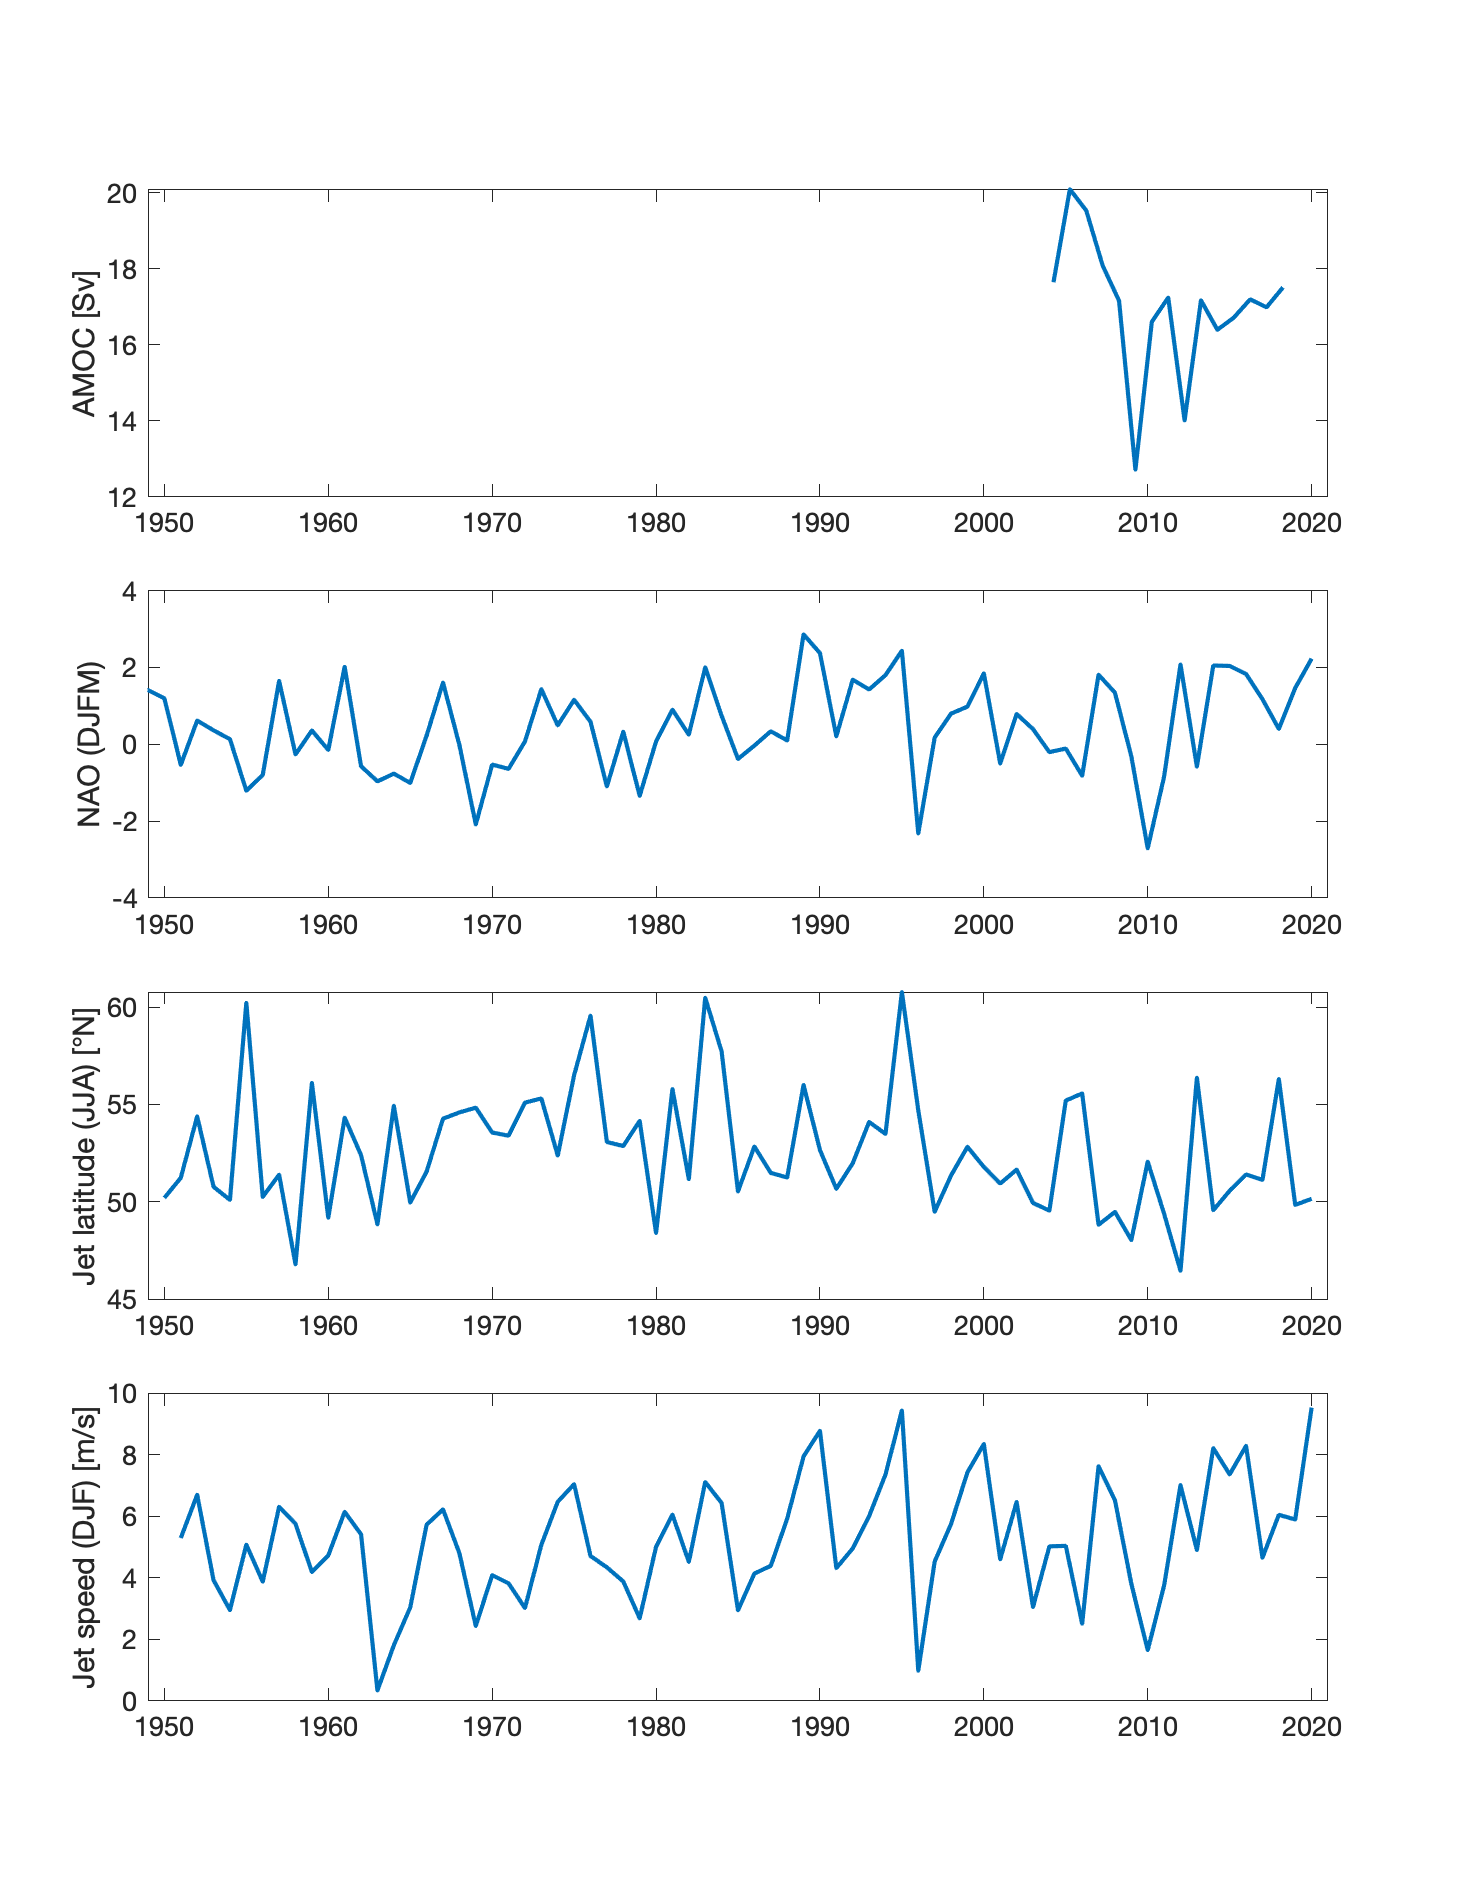
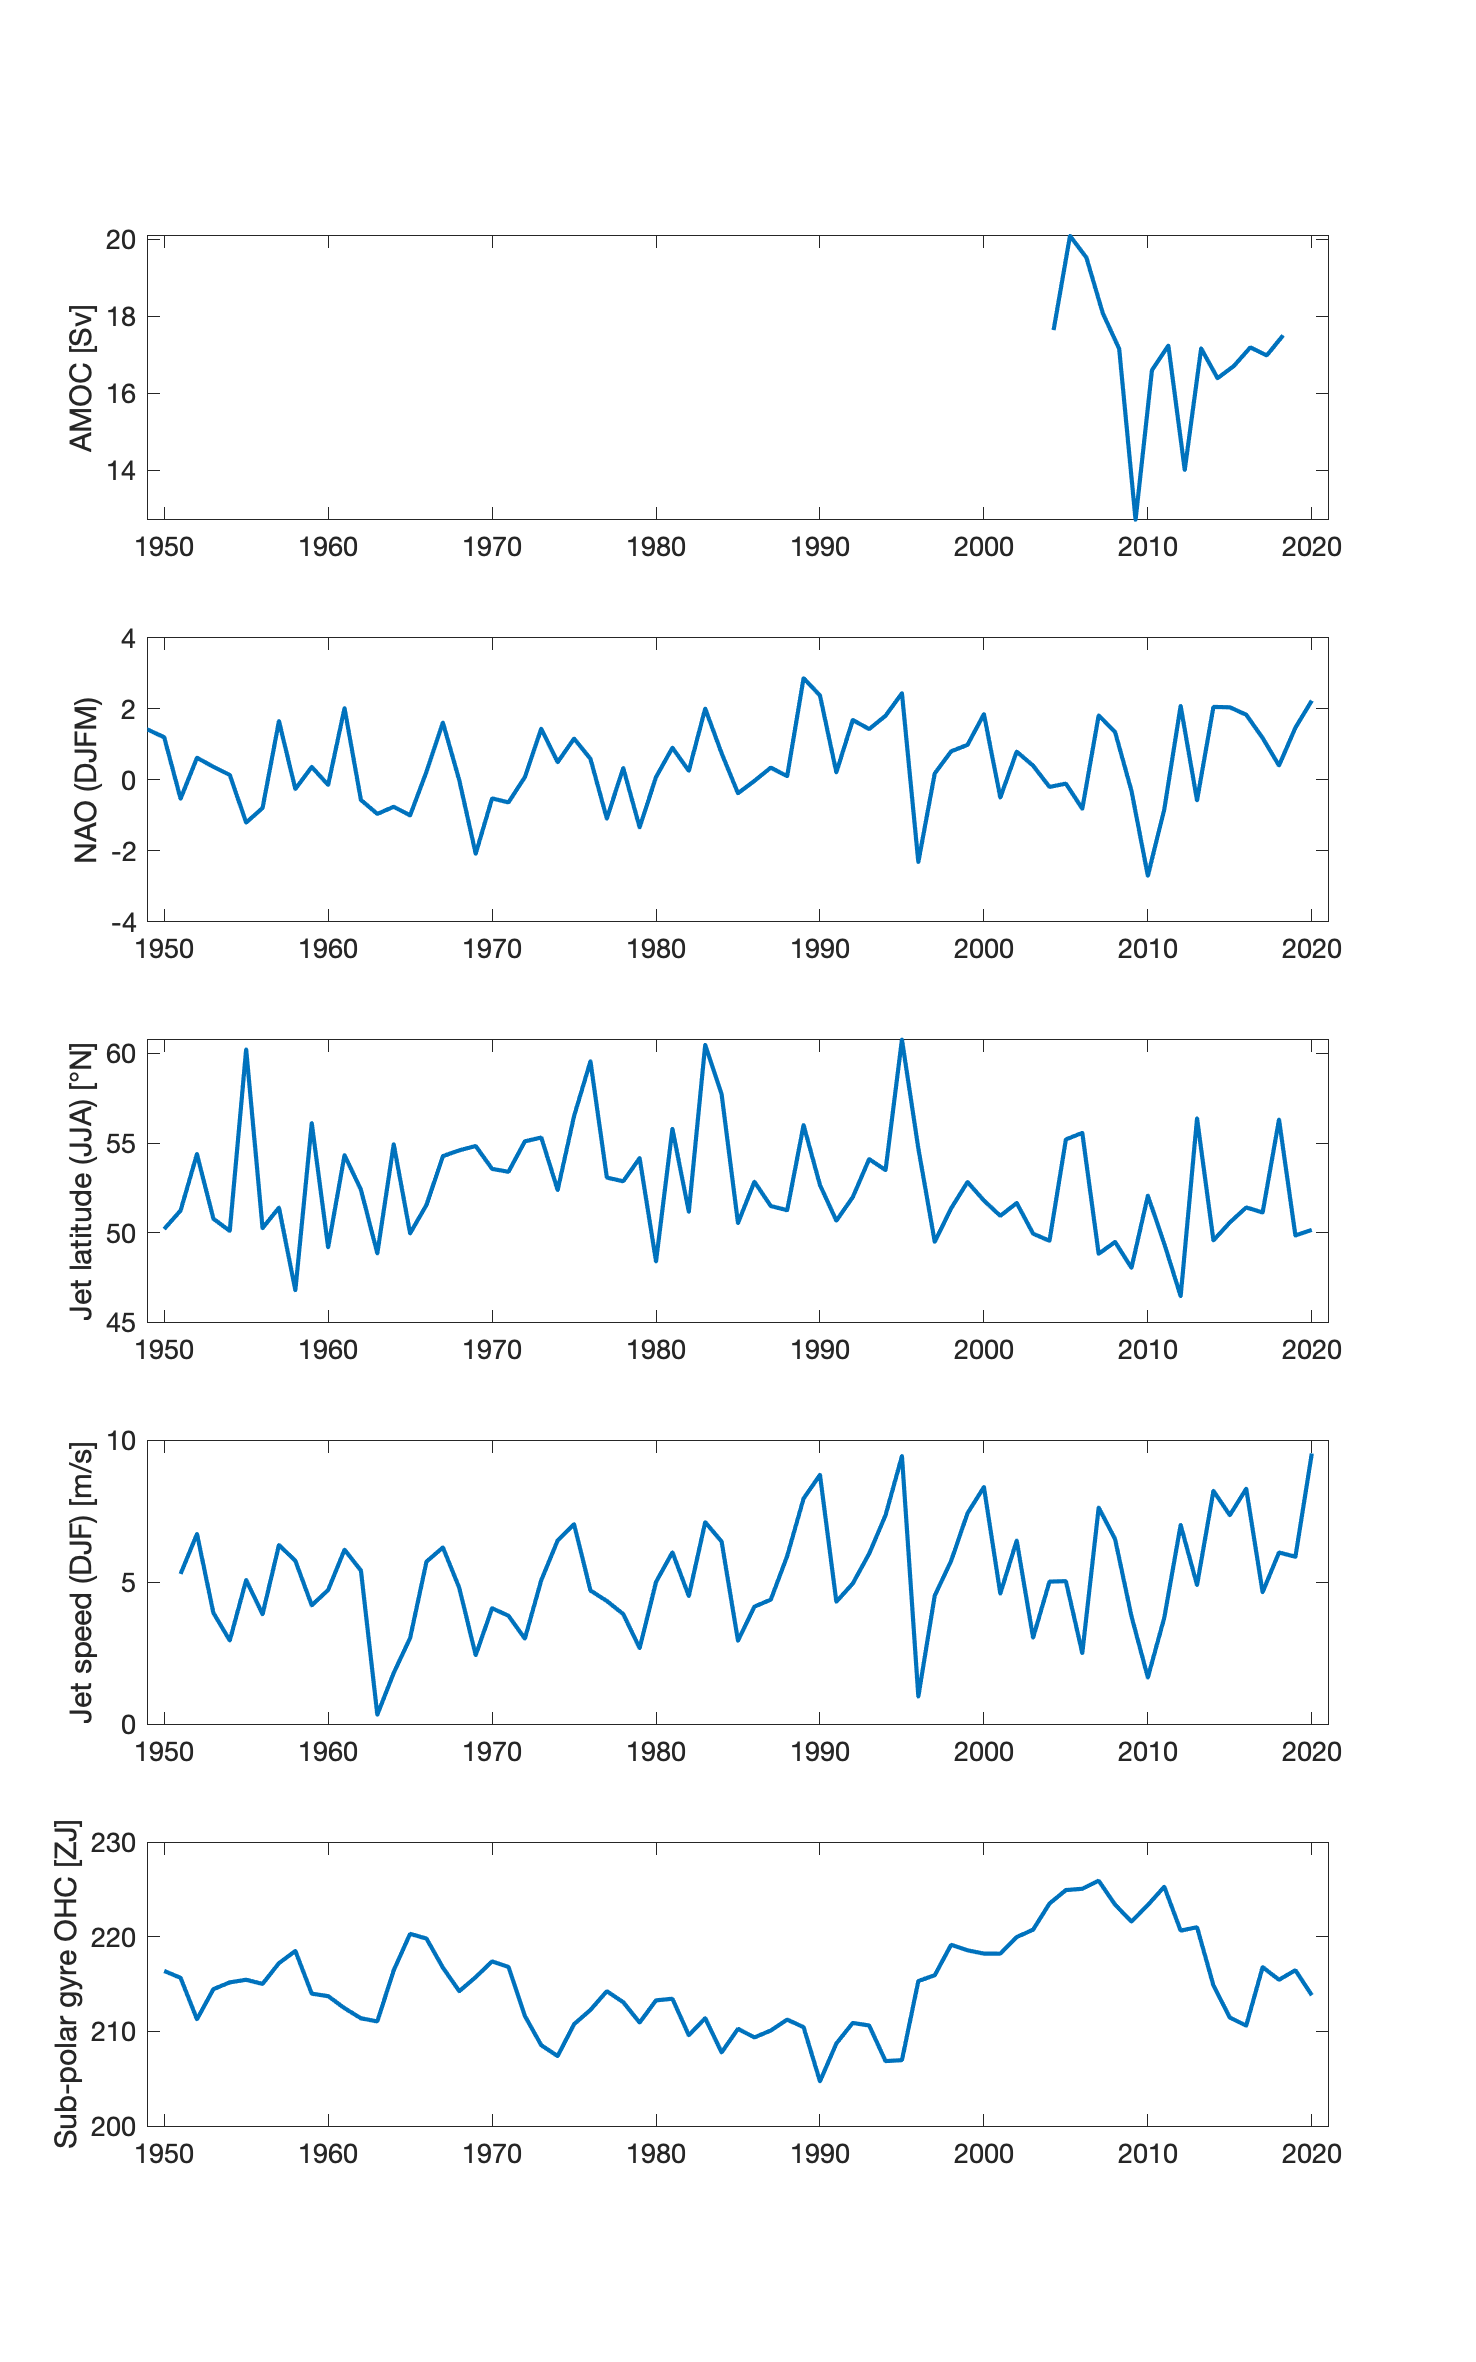
Updates for SPG OHC

diff --git a/processing_script.m b/processing_script.m
@@ -18,9 +18,25 @@ for yy=first_year:last_year
     if length(F)>=728 & length(F)<=732 % twice per day, each day, allowing for one missing day
      AMOC(yy)=nanmean(MOC_RAW(F,end));
      fprintf(fid,'%.2f %.3f\n',yy+0.25,AMOC(yy));
+    else
+        disp(sprintf('%d %d',yy,length(F)));
+        AMOC2(yy)=nanmean(MOC_RAW(F,end));
     end
 end
 fclose(fid);
+
+clearvars -except LY
+%%% SPG
+SPG(1:LY)=NaN;
+SPGOHC=ncread('SPG-OHC/EN4_OHC_NA.nc','OHC_EN4_1000m_SPG');
+SPGOHCtime=ncread('SPG-OHC/EN4_OHC_NA.nc','time');
+first_year=1950;
+last_year=2020;
+fid=fopen('DATA/SPG-OHC.txt','w+');
+for yy=(first_year):last_year
+   SPG(yy)=mean(SPGOHC(12*(yy-first_year)+[1:12]))/1e21;
+   fprintf(fid,'%d %.3f\n',yy,SPG(yy));
+end
 
 clearvars -except LY
 %%%% NAO %%%%
@@ -63,9 +79,4 @@ for yy=1950:LY
    fprintf(fid,'%d %.3f\n',yy,JETDJF(yy));
 end
 fclose(fid);
-
-
-
-
-
 
